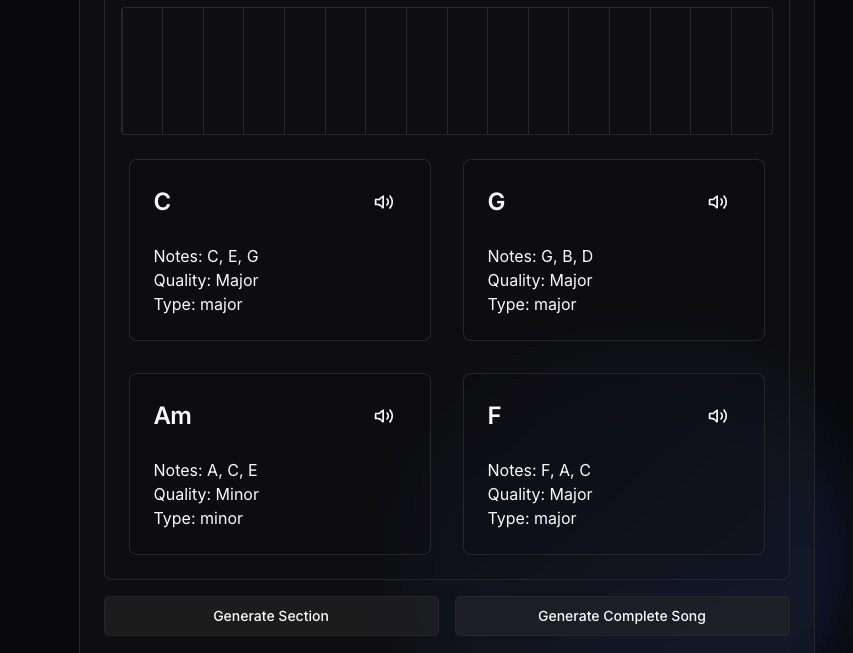
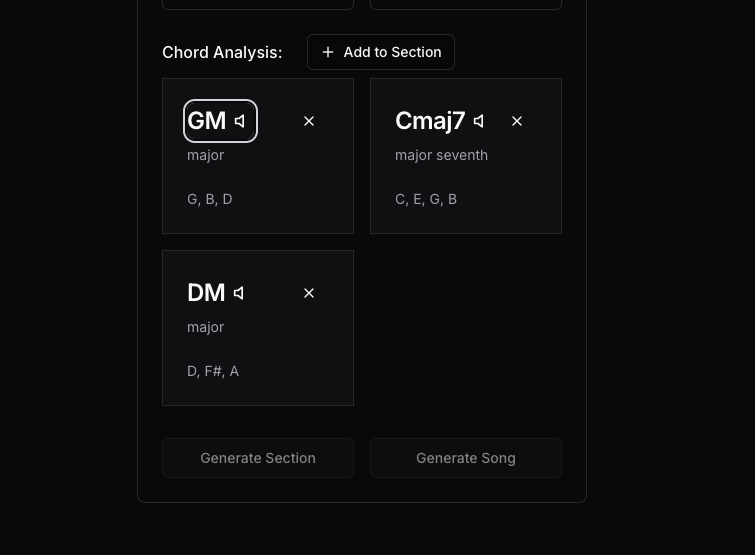
image preview

diff --git a/src/app/[locale]/app/page.tsx b/src/app/[locale]/app/page.tsx
@@ -442,7 +442,7 @@ const SongWriter = () => {
               className="flex-1"
               disabled={!userSongIdea || isLoadingGenerate}
             >
-              {isLoadingGenerate ? `...your next hit` : `Generate Complete Song`}
+              {isLoadingGenerate ? `...your next hit` : `Generate Song`}
             </Button>
           </div>
         </CardContent>
